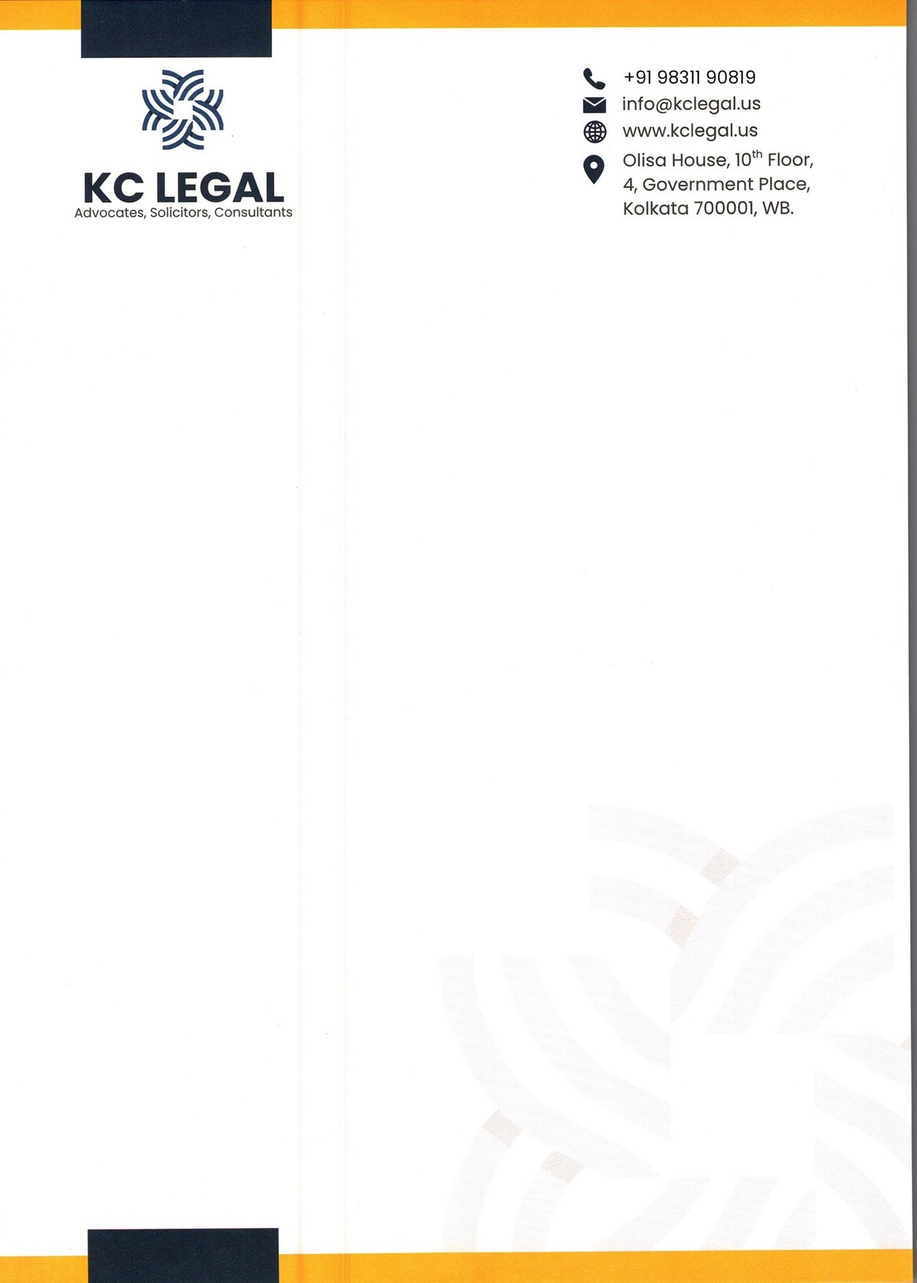
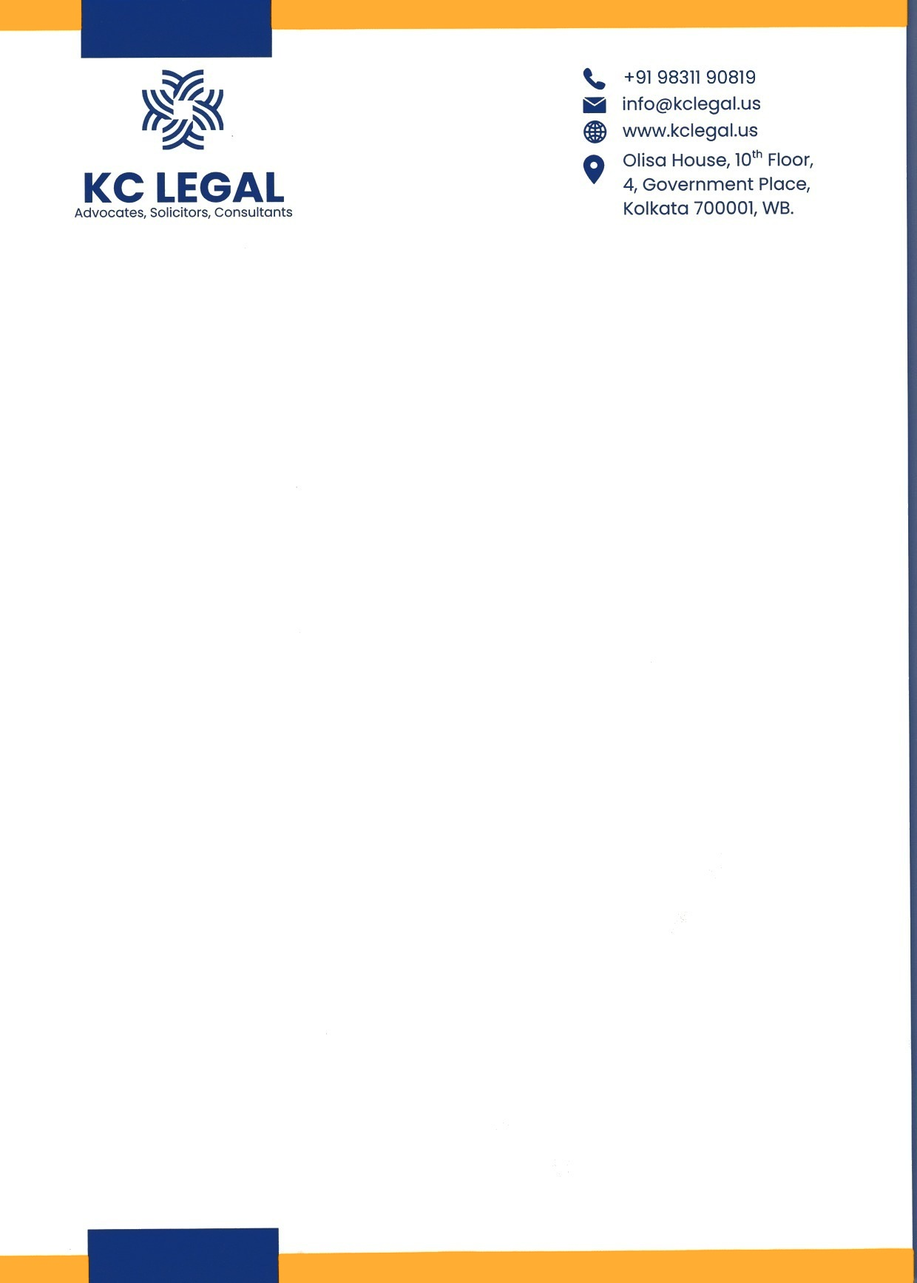
v2.6

diff --git a/public/views-office.js b/public/views-office.js
@@ -363,19 +363,18 @@ route(/^\/template$/, async () => {
   let T = await getTpl(true);
   const F = (k, label, o = {}) => `<label>${label}</label>${o.area ? `<textarea name="${k}" rows="3">` : `<input name="${k}" type="${o.type || 'text'}" ${o.type === 'number' ? 'min="0" max="120"' : ''} value="`}${o.area ? esc(T.settings[k] || '') + '</textarea>' : esc(T.settings[k] ?? '') + '">'}`;
   const sample = () => {
-    const S = T.settings;
-    return sheetFor(T, `<div class="dochead"><h1>${esc(S.invoice_title)}</h1><div class="meta"><div><span>Invoice no.</span><b>INV/0001/2026</b></div><div><span>Date</span><b>${dt(new Date().toISOString().slice(0, 10))}</b></div></div></div>
-      <div class="billto"><span>BILL TO</span><b>Sample Client</b><div>Kolkata</div></div>
-      <table class="itab"><tr><th>#</th><th>Description</th><th class="n">Amount</th></tr><tr><td>1</td><td>Professional fees</td><td class="n">${inr(1500000)}</td></tr></table>
-      <table class="ttab"><tr class="due"><td>Amount due</td><td class="n">${inr(1500000)}</td></tr></table>
-      <p class="words"><span>In words:</span> ${inWords(1500000)}</p>
-      ${S.payment_details ? `<div class="paybox"><b>Payment details</b><div>${esc(S.payment_details).replace(/\n/g, '<br>')}</div></div>` : ''}
-      ${S.invoice_footer ? `<p class="inote">${esc(S.invoice_footer)}</p>` : ''}${signBlock(S)}`);
+    const S = T.settings, d = new Date().toISOString().slice(0, 10);
+    const inv = { inv_no: 'INV/0001', inv_date: d, due_date: d, status: 'sent', client_name: 'Sample Client Pvt. Ltd.', client_address: '12 Park Street\nKolkata 700016', subject: 'Professional fees for legal services',
+      items: [{ description: 'Legal consultation\nAdvice, drafting and appearance as required.', qty: 1, rate_paise: 1500000 }, { description: 'Documentation charges', qty: 2, rate_paise: 250000 }], total_paise: 2000000, paid_paise: 0, payments: [], notes: '' };
+    return sheetFor(T, invoiceSheet(inv, S, T));
   };
   view(`<h1>Document design</h1><p class="mute">This letter pad is used for every invoice, receipt and letter your firm prints.</p>
     <div class="tplgrid"><div class="card"><form id="tf">
       <h3>Letterhead image</h3><p class="mute">Upload a full-page A4 JPG or PNG (max 4 MB) with your logo, header and footer. Or leave it empty and a text header is printed.</p>
-      <div class="row"><input type="file" id="lhf" accept="image/jpeg,image/png"><button type="button" class="btn sm ghost" id="lhd" ${T.has_letterhead ? '' : 'hidden'}>Remove image</button></div>
+      <div class="row"><input type="file" id="lhf" accept="image/jpeg,image/png"><button type="button" class="btn sm ghost" id="lhd" style="${T.has_letterhead ? '' : 'display:none'}">Remove image</button><button type="button" class="btn sm" id="lhm" style="${T.has_letterhead ? '' : 'display:none'}">Match colours &amp; margins to letterhead</button></div>
+      <p class="mute">After you upload, the portal reads your letterhead and sets the colours and the header/footer space so the invoice matches it.</p>
+      <h3>Signature</h3><p class="mute">Upload a picture of the authorised signatory's signature (PNG with transparent background is best, max 1 MB). It prints above "Authorised Signatory".</p>
+      <div class="row"><input type="file" id="sgf" accept="image/jpeg,image/png"><button type="button" class="btn sm ghost" id="sgd" style="${T.has_signature ? '' : 'display:none'}">Remove signature</button></div>${T.has_signature ? `<img src="/api/template/signature?v=${T.sv}" alt="" style="max-height:60px;margin-top:.4rem;background:#fff;border:1px solid #ddd;padding:2px">` : ''}
       <h3>Header (used when there is no image)</h3>${F('header_name', 'Firm name')}${F('tagline', 'Tagline')}${F('address', 'Address', { area: 1 })}${F('phone', 'Phone')}${F('email', 'Email')}${F('website', 'Website')}
       <h3>Colours &amp; font</h3><div class="row"><div><label>Main</label><input name="primary" type="color" value="${T.settings.primary}"></div><div><label>Accent</label><input name="accent" type="color" value="${T.settings.accent}"></div><div><label>Title</label><input name="title_color" type="color" value="${T.settings.title_color}"></div></div>
       <label>Font</label><select name="font"><option value="sans" ${T.settings.font === 'sans' ? 'selected' : ''}>Modern (sans-serif)</option><option value="serif" ${T.settings.font === 'serif' ? 'selected' : ''}>Classic (serif)</option></select>
@@ -383,7 +382,7 @@ route(/^\/template$/, async () => {
       <p class="mute">Top and bottom are the space kept clear for the letterhead's header and footer. They apply on every page of a long document. Margins are in millimetres.</p>
       <div class="row"><div>${F('top_mm', 'Top / header', { type: 'number' })}</div><div>${F('bottom_mm', 'Bottom / footer', { type: 'number' })}</div></div><div class="row"><div>${F('left_mm', 'Left', { type: 'number' })}</div><div>${F('right_mm', 'Right', { type: 'number' })}</div></div>
       <div class="row" style="margin-top:.4rem"><button type="button" class="btn sm ghost" id="mstd">Standard A4 (25 mm all round)</button></div>
-      <h3>Wording</h3>${F('invoice_title', 'Invoice title')}${F('receipt_title', 'Receipt title')}${F('signatory_name', 'Signatory name')}${F('signatory_title', 'Signatory designation')}${F('payment_details', 'Payment details (bank / UPI)', { area: 1 })}${F('invoice_footer', 'Invoice footer note', { area: 1 })}
+      <h3>Wording</h3>${F('invoice_title', 'Invoice title')}${F('receipt_title', 'Receipt title')}${F('signatory_name', 'Signatory name')}${F('signatory_title', 'Signatory designation')}${F('payment_details', 'Payment details (bank / UPI)', { area: 1 })}${F('invoice_footer', 'Invoice footer note', { area: 1 })}${F('pan', 'PAN (printed under Notes)')}${F('invoice_terms', 'Terms & conditions (one per line)', { area: 1 })}
       <p class="err" hidden></p><div style="margin-top:1rem"><button class="btn gold" style="width:100%">Save design</button></div></form></div>
       <div class="tplprev" id="pv"></div></div>`);
   const form = $('#tf'), pv = $('#pv');
@@ -395,7 +394,34 @@ route(/^\/template$/, async () => {
     e.preventDefault(); const err = $('.err', form); err.hidden = true;
     try { await PUT('/api/template', read()); T = await getTpl(true); paint(); toast('Design saved'); } catch (ex) { err.hidden = false; err.textContent = ex.message; }
   };
-  $('#lhf').onchange = async (e) => { const f = e.target.files[0]; if (!f) return; const fd = new FormData(); fd.append('file', f); try { await POST('/api/template/letterhead', fd); T = await getTpl(true); toast('Letterhead uploaded'); go(); } catch (ex) { toast(ex.message, true); } };
+  const readImg = (f) => new Promise((ok, no) => { const fr = new FileReader(); fr.onerror = no; fr.onload = () => { const im = new Image(); im.onload = () => ok(im); im.onerror = no; im.src = fr.result; }; fr.readAsDataURL(f); });
+  // read the letterhead: find the header/footer depth and the dominant dark + bright colours
+  const matchLh = async (src) => {
+    const im = typeof src === 'string' ? await new Promise((ok, no) => { const i = new Image(); i.onload = () => ok(i); i.onerror = no; i.src = src; }) : await readImg(src);
+    const W = 200, H = Math.round(W * im.naturalHeight / im.naturalWidth), c = document.createElement('canvas'); c.width = W; c.height = H;
+    const g = c.getContext('2d'); g.drawImage(im, 0, 0, W, H); const px = g.getImageData(0, 0, W, H).data;
+    const ink = (x, y) => { const k = (y * W + x) * 4; return px[k + 3] > 40 && (px[k] + px[k + 1] + px[k + 2]) / 3 < 225; };
+    const rowInk = []; for (let y = 0; y < H; y++) { let n = 0; for (let x = 0; x < W; x++) if (ink(x, y)) n++; rowInk.push(n > 1); }
+    const mm = (y) => Math.round(y * 297 / H), gap = Math.max(3, Math.round(H * 0.03));
+    let top = 0; { let y = 0, blank = 0; for (; y < H * 0.45; y++) { if (rowInk[y]) { top = y; blank = 0; } else if (top && ++blank >= gap) break; } }
+    let bot = H; { let y = H - 1, blank = 0; for (; y > H * 0.55; y--) { if (rowInk[y]) { bot = y; blank = 0; } else if (bot < H && ++blank >= gap) break; } }
+    const bk = new Map();
+    for (let y = 0; y < H; y++) for (let x = 0; x < W; x++) { const k = (y * W + x) * 4, r = px[k], gg = px[k + 1], b = px[k + 2];
+      if (px[k + 3] < 40 || Math.max(r, gg, b) - Math.min(r, gg, b) < 45) continue;
+      const key = (r >> 5) * 64 + (gg >> 5) * 8 + (b >> 5); const e = bk.get(key) || [0, 0, 0, 0]; e[0]++; e[1] += r; e[2] += gg; e[3] += b; bk.set(key, e); }
+    const hex = (e) => '#' + [e[1], e[2], e[3]].map((v) => Math.round(v / e[0]).toString(16).padStart(2, '0')).join('');
+    const rgb = (e) => [e[1] / e[0], e[2] / e[0], e[3] / e[0]], dist = (p, q) => Math.hypot(p[0] - q[0], p[1] - q[1], p[2] - q[2]);
+    const list = [...bk.values()].filter((e) => e[0] > 25).sort((p, q) => q[0] - p[0]);
+    let dk = null, br = null;
+    if (list.length) { const dark = list.find((e) => (rgb(e)[0] + rgb(e)[1] + rgb(e)[2]) / 3 < 150) || list[0]; dk = hex(dark); const o = list.find((e) => dist(rgb(e), rgb(dark)) > 110); br = o ? hex(o) : null; }
+    return { top_mm: Math.min(120, Math.max(10, mm(top) + 3)), bottom_mm: Math.min(80, Math.max(8, 297 - mm(bot) + 2)), primary: dk, accent: br };
+  };
+  const applyMatch = async (src) => { const m = await matchLh(src); const o = { top_mm: m.top_mm, bottom_mm: m.bottom_mm }; if (m.primary) o.primary = m.primary; if (m.accent) o.accent = m.accent; await PUT('/api/template', { ...T.settings, ...o }); };
+  $('#lhf').onchange = async (e) => { const f = e.target.files[0]; if (!f) return; const fd = new FormData(); fd.append('file', f);
+    try { await POST('/api/template/letterhead', fd); try { await applyMatch(f); } catch (x) { console.error('match failed', x); } T = await getTpl(true); toast('Letterhead uploaded - colours and margins matched'); go(); } catch (ex) { toast(ex.message, true); } };
+  $('#lhm').onclick = async () => { try { await applyMatch('/api/template/letterhead?v=' + Date.now()); T = await getTpl(true); toast('Colours and margins matched to your letterhead'); go(); } catch (ex) { toast(ex.message, true); } };
+  $('#sgf').onchange = async (e) => { const f = e.target.files[0]; if (!f) return; const fd = new FormData(); fd.append('file', f); try { await POST('/api/template/signature', fd); T = await getTpl(true); toast('Signature uploaded'); go(); } catch (ex) { toast(ex.message, true); } };
+  $('#sgd').onclick = async () => { if (!sure('Remove the signature?')) return; await DEL('/api/template/signature'); await getTpl(true); go(); };
   $('#lhd').onclick = async () => { if (!sure('Remove the letterhead image?')) return; await DEL('/api/template/letterhead'); await getTpl(true); go(); };
 });
 

diff --git a/public/views-billing.js b/public/views-billing.js
@@ -6,22 +6,34 @@ route(/^\/invoices$/, async () => {
     <div class="card"><h2>Receipts</h2>${pay.length ? `<ul class="list">${pay.map((p) => `<li><a href="#/receipt/${p.id}">${esc(p.rec_no)}</a><span>${inr(p.amount_paise)} · ${dt(p.pay_date)}</span></li>`).join('')}</ul>` : '<p class="mute">No receipts.</p>'}</div>`);
 }, { client: true });
 
+
+function invoiceSheet(i, S, T) {
+  const lines = (t) => esc(t).replace(/\n/g, '<br>');
+  const terms = (() => { if (!i.due_date || i.due_date <= i.inv_date) return 'Due on Receipt'; const n = Math.round((new Date(i.due_date) - new Date(i.inv_date)) / 864e5); return 'Due in ' + n + ' day' + (n === 1 ? '' : 's'); })();
+  const due = i.total_paise - i.paid_paise, closed = ['draft', 'cancelled'].includes(i.status);
+  const tc = String(S.invoice_terms || '').split('\n').map((x) => x.trim()).filter(Boolean);
+  const stamp = { paid: 'PAID', cancelled: 'CANCELLED', draft: 'DRAFT' }[i.status] || '';
+  return `<div class="vi">
+    <div class="vi-title"><h1>${esc(S.invoice_title)}</h1>${stamp ? `<span class="vi-stamp">${stamp}</span>` : ''}</div>
+    <div class="vi-box vi-meta"><div><p><span>Invoice No.</span>: <b>${esc(i.inv_no)}</b></p><p><span>Invoice Date</span>: <b>${dt(i.inv_date)}</b></p></div><div><p><span>Terms</span>: <b>${terms}</b></p><p><span>Due Date</span>: <b>${dt(i.due_date || i.inv_date)}</b></p></div></div>
+    <div class="vi-bar">Bill To</div>
+    <div class="vi-box vi-bill"><b>${esc(i.client_name)}</b>${i.client_address ? `<div>${lines(i.client_address)}</div>` : ''}</div>
+    ${i.subject ? `<div class="vi-box vi-sub"><span>Subject :</span> <b>${esc(i.subject)}</b></div>` : ''}
+    <table class="vi-items"><tr><th class="c">#</th><th>Item &amp; Description</th><th class="n">Qty</th><th class="n">Rate</th><th class="n">Amount</th></tr>${i.items.map((x, k) => { const [h, ...r] = String(x.description).split('\n'); return `<tr><td class="c">${k + 1}</td><td><b>${esc(h)}</b>${r.length ? `<div class="d">${lines(r.join('\n'))}</div>` : ''}</td><td class="n">${Number(x.qty).toFixed(2)}</td><td class="n">${inr(x.rate_paise).slice(1)}</td><td class="n">${inr(Math.round(x.qty * x.rate_paise)).slice(1)}</td></tr>`; }).join('')}</table>
+    <div class="vi-tot"><div class="w"><span>Total In Words</span><em>${inWords(i.total_paise).replace(/^Rupees/, 'Indian Rupee')}</em></div>
+      <table><tr><td>Sub Total</td><td class="n">${inr(i.total_paise).slice(1)}</td></tr><tr class="t"><td>Total</td><td class="n">${inr(i.total_paise)}</td></tr>${i.paid_paise ? `<tr><td>Payment Received</td><td class="n">(−) ${inr(i.paid_paise)}</td></tr>` : ''}${closed ? '' : `<tr class="due"><td>Balance Due</td><td class="n">${inr(due)}</td></tr>`}</table></div>
+    ${i.notes || S.pan || S.payment_details || S.invoice_footer || i.payments.length ? `<div class="vi-notes"><div class="nl">${S.payment_details ? `<p class="bk"><u>BANK DETAILS</u><br>${lines(String(S.payment_details).replace(/(IFSC[^\n(]*?)\s*\(([^)\n]+)\)/i, '$1\nBranch: $2'))}</p>` : ''}${S.pan ? `<p>PAN: ${esc(S.pan)}</p>` : ''}${i.notes ? `<p>${lines(i.notes)}</p>` : ''}${S.invoice_footer ? `<p class="ft">${esc(S.invoice_footer)}</p>` : ''}</div><div class="vi-sign"><div class="gap">${T && T.has_signature ? `<img src="/api/template/signature?v=${T.sv}" alt="">` : ''}</div><div>Authorised Signatory</div></div>${i.payments.length ? `<p class="ft"><b>Receipts:</b> ${i.payments.map((p) => `${esc(p.rec_no)} (${inr(p.amount_paise)}, ${dt(p.pay_date)})`).join('; ')}</p>` : ''}</div>` : `<div class="vi-sign"><div class="gap">${T && T.has_signature ? `<img src="/api/template/signature?v=${T.sv}" alt="">` : ''}</div><div>Authorised Signatory</div></div>`}
+    ${tc.length ? `<div class="vi-terms"><span>Terms &amp; Conditions</span><ol>${tc.map((x) => `<li>${esc(x)}</li>`).join('')}</ol></div>` : ''}
+  </div>`;
+}
+
 route(/^\/invoice\/(\d+)$/, async ([id]) => {
   const [i, T] = await Promise.all([GET('/api/invoices/' + id), getTpl()]), S = T.settings, billing = can('admin', 'advocate', 'accounts');
   view(`<div class="row sp noprint"><a class="btn ghost sm" href="#/" data-back>← Back</a><div class="row">
     ${billing && i.status === 'draft' ? '<button class="btn gold sm" id="iss">Issue to client</button>' : ''}
     ${billing && ['sent', 'part_paid'].includes(i.status) ? '<button class="btn sm" id="rcv">Record payment</button><button class="btn sm ghost" id="rmd">Send reminder with pay link</button>' : ''}
     ${billing && ['draft', 'sent'].includes(i.status) ? '<button class="btn red sm" id="cxl">Cancel</button>' : ''}<button class="btn sm" data-print>Print</button></div></div>
-    ${sheetFor(T, `<div class="dochead"><h1>${esc(S.invoice_title)}</h1><div class="meta"><div><span>Invoice No.</span><b>${esc(i.inv_no)}</b></div><div><span>Date</span><b>${dt(i.inv_date)}</b></div>${i.due_date ? `<div><span>Due date</span><b>${dt(i.due_date)}</b></div>` : ''}<div><span>Status</span><b>${esc(String(i.status).replace('_', ' ').toUpperCase())}</b></div></div></div>
-    <div class="billto"><span>BILLED TO</span><b>${esc(i.client_name)}</b>${i.client_address ? `<div>${esc(i.client_address)}</div>` : ''}</div>
-    <table class="itab"><tr><th>#</th><th>Description</th><th class="n">Qty</th><th class="n">Rate (₹)</th><th class="n">Amount (₹)</th></tr>${i.items.map((x, k) => `<tr><td>${k + 1}</td><td>${esc(x.description)}</td><td class="n">${x.qty}</td><td class="n">${inr(x.rate_paise).slice(1)}</td><td class="n">${inr(Math.round(x.qty * x.rate_paise)).slice(1)}</td></tr>`).join('')}</table>
-    <table class="ttab"><tr><td>Total</td><td class="n">${inr(i.total_paise)}</td></tr>${i.paid_paise ? `<tr><td>Received</td><td class="n">− ${inr(i.paid_paise)}</td></tr>` : ''}<tr class="due"><td>${i.paid_paise ? 'Balance due' : 'Amount due'}</td><td class="n">${inr(i.total_paise - i.paid_paise)}</td></tr></table>
-    <p class="words"><span>Amount in words:</span> ${inWords(i.total_paise - i.paid_paise)}</p>
-    ${i.notes ? `<p class="inote">${esc(i.notes)}</p>` : ''}
-    ${i.payments.length ? `<p class="inote"><b>Receipts:</b> ${i.payments.map((p) => `${esc(p.rec_no)} (${inr(p.amount_paise)}, ${dt(p.pay_date)})`).join('; ')}</p>` : ''}
-    ${S.payment_details ? `<div class="paybox"><b>Payment details</b><div>${esc(S.payment_details).replace(/\n/g, '<br>')}</div></div>` : ''}
-    ${S.invoice_footer ? `<p class="inote">${esc(S.invoice_footer)}</p>` : ''}
-    ${signBlock(S)}`)}`);
+    ${sheetFor(T, invoiceSheet(i, S, T))}`);
   const act = (sel, fn) => { const b = $(sel); if (b) b.onclick = fn; };
   act('#iss', async () => { await POST(`/api/invoices/${id}/issue`); go(); });
   act('#cxl', async () => { if (sure('Cancel this invoice?')) { await POST(`/api/invoices/${id}/cancel`); go(); } });
@@ -50,9 +62,12 @@ const BTABS = [['invoices', 'Invoices'], ['payments', 'Receipts'], ['payouts', '
 route(/^\/(?:billing|accounts)(?:\/(\w+))?$/, async ([tab = 'invoices'], p) => {
   const head = `<h1>Accounts</h1><div class="tabs">${BTABS.map(([k, l]) => `<a href="#/accounts/${k}" class="${tab === k ? 'on' : ''}">${l}</a>`).join('')}</div>`;
   if (tab === 'invoices') {
+    const sk = invSortKey(), rowsHtml = (list) => list.map((i) => `<tr><td><a href="#/invoice/${i.id}">${esc(i.inv_no)}</a></td><td>${esc(i.client_name)}</td><td>${dt(i.inv_date)}</td><td class="n">${inr(i.total_paise)}</td><td class="n">${inr(i.paid_paise)}</td><td>${sp(i.status)}</td></tr>`).join('');
     const rows = await GET('/api/invoices');
-    view(`${head}<div class="row sp" style="margin-bottom:.8rem"><span class="mute">${rows.length} invoices</span><button class="btn" id="add">New invoice</button></div><div class="card"><div class="tw"><table><tr><th>No.</th><th>Client</th><th>Date</th><th class="n">Total</th><th class="n">Received</th><th></th></tr>${rows.map((i) => `<tr><td><a href="#/invoice/${i.id}">${esc(i.inv_no)}</a></td><td>${esc(i.client_name)}</td><td>${dt(i.inv_date)}</td><td class="n">${inr(i.total_paise)}</td><td class="n">${inr(i.paid_paise)}</td><td>${sp(i.status)}</td></tr>`).join('')}</table></div></div>`);
-    $('#add').onclick = async () => ask('New invoice', [{ name: 'client_id', label: 'Client', type: 'select', options: await clientOpts(), required: true }, { name: 'matter_id', label: 'Matter', type: 'select', options: await matterOpts() }, { name: 'inv_date', label: 'Date', type: 'date', value: today() }, { name: 'due_date', label: 'Due date', type: 'date' },
+    view(`${head}<div class="row sp" style="margin-bottom:.8rem"><span class="mute">${rows.length} invoices</span><span class="row" style="gap:.5rem">${invSortSel(sk)}<button class="btn" id="add">New invoice</button></span></div><div class="card"><div class="tw"><table><tr><th>No.</th><th>Client</th><th>Date</th><th class="n">Total</th><th class="n">Received</th><th></th></tr>${rowsHtml(sortInv(rows, sk))}</table></div></div>`);
+    
+    $('#invsort').onchange = (e) => { invSortSave(e.target.value); const tb = document.querySelector('.card table'); const hdr = tb.rows[0].outerHTML; tb.innerHTML = '<tbody>' + hdr + rowsHtml(sortInv(rows, e.target.value)) + '</tbody>'; };
+    $('#add').onclick = async () => ask('New invoice', [{ name: 'client_id', label: 'Client', type: 'select', options: await clientOpts(), required: true }, { name: 'matter_id', label: 'Matter', type: 'select', options: await matterOpts() }, { name: 'inv_date', label: 'Date', type: 'date', value: today() }, { name: 'due_date', label: 'Due date', type: 'date' }, { name: 'subject', label: 'Subject (printed on the invoice)' },
       { name: 'lines', label: 'Items — one per line: Description | Qty | Rate (₹)', type: 'textarea', required: true, ph: 'Professional fee — hearing | 1 | 15000\nDrafting of reply | 1 | 5000' }, { name: 'notes', label: 'Notes on invoice' }], 'Create draft', async (v) => {
       const items = v.lines.split('\n').map((s) => s.trim()).filter(Boolean).map((s) => { const [d, q, r] = s.split('|').map((x) => x.trim()); if (!d || !(+r > 0)) throw new Error('Check this line: ' + s); return { description: d, qty: +q || 1, rate: +r }; });
       const r = await POST('/api/invoices', { ...v, items, matter_id: v.matter_id || null }); location.hash = '#/invoice/' + r.id; }, true);

diff --git a/public/style.css b/public/style.css
@@ -163,3 +163,57 @@ input[type=color]{width:64px;height:38px;padding:2px}
 
 .printhead{display:none}
 @media print{.printhead{display:block;margin-bottom:.6rem}.printhead hr{border:0;border-top:2px solid #b8893b}.tabs,.chead,.fx-bar{display:none!important}.msg{break-inside:avoid}table{font-size:10pt}body{-webkit-print-color-adjust:exact;print-color-adjust:exact}}
+
+/* invoice in the firm's tax-invoice layout (navy + amber letter-pad colours) */
+.vi{font-size:9.5pt;line-height:1.45;color:#1b2238}
+.vi-title{display:flex;justify-content:space-between;align-items:flex-end;margin-bottom:3mm}.vi-title h1{margin:0;font-size:26pt;letter-spacing:.06em;font-weight:500;color:var(--pri)}
+.vi-stamp{border:2px solid var(--acc);color:#b87700;font-weight:700;padding:1mm 4mm;letter-spacing:.14em;transform:rotate(-4deg)}
+.vi-box{border:1px solid #c9cfdc;border-bottom:0;padding:2.4mm 3mm}.vi-meta{display:grid;grid-template-columns:1fr 1fr;padding:0}.vi-meta>div{padding:2.4mm 3mm}.vi-meta>div:first-child{border-right:1px solid #c9cfdc}
+.vi-meta p{margin:0;display:flex}.vi-meta span{display:inline-block;width:27mm;color:#4a5370}.vi-meta b{margin-left:1.5mm}
+.vi-bar{background:var(--pri);color:#fff;font-weight:700;padding:1.6mm 3mm;border:1px solid var(--pri);border-bottom:0}.vi-bill b{font-size:11.5pt}
+.vi-sub span{color:#4a5370;font-size:9pt}.vi-sub p{margin:1mm 0 0}
+.vi-items{width:100%;border-collapse:collapse;border:1px solid #c9cfdc}.vi-items th{background:var(--pri);color:#fff;padding:1.8mm 3mm;text-align:left;font-size:9pt;border-right:1px solid rgba(255,255,255,.3)}
+.vi-items td{padding:2.2mm 3mm;vertical-align:top;border-top:1px solid #dde1ea}.vi-items .c{width:9mm;text-align:center}.vi-items .n{text-align:right;white-space:nowrap}.vi-items th.n{text-align:right}.vi-items .d{color:#4a5370;font-size:9pt}
+.vi-tot{display:flex;justify-content:space-between;gap:6mm;border:1px solid #c9cfdc;border-top:0;padding:3mm}.vi-tot .w{flex:1}.vi-tot .w span{display:block;color:#4a5370}.vi-tot .w em{display:block;font-weight:700;color:var(--pri)}
+.vi-tot table{width:78mm;border-collapse:collapse}.vi-tot td{padding:1.2mm 2mm}.vi-tot td.n{text-align:right}.vi-tot .t td{font-weight:700}.vi-tot .due td{background:var(--acc);color:var(--pri);font-weight:700;font-size:11pt;padding:2mm}
+.vi-notes{border:1px solid #c9cfdc;border-top:0;padding:3mm}.vi-notes>span{display:block;color:#4a5370;margin-bottom:1mm}.vi-notes p{margin:0 0 2mm}.vi-notes .ft{color:#4a5370;font-size:9pt}
+.vi-sign{margin:6mm 0 4mm auto;width:62mm;text-align:center}.vi-sign .gap{height:16mm;border-bottom:1px solid #9aa3b8;margin-bottom:1.5mm}
+.vi-terms{font-size:8.5pt;color:#333;break-inside:avoid}.vi-terms>span{display:block;font-weight:700;color:var(--pri);margin-bottom:1mm;border-bottom:2px solid var(--acc);padding-bottom:1mm}.vi-terms ol{margin:1.5mm 0 0 4.5mm;padding:0}.vi-terms li{margin-bottom:.6mm}
+.vi-box,.vi-bar,.vi-items tr,.vi-tot,.vi-notes{break-inside:avoid}
+.vi-items .c{width:10mm}.vi-items th.n,.vi-items td.n{width:24mm;padding-left:2mm;padding-right:3mm}.vi-items th:nth-child(3),.vi-items td:nth-child(3){width:16mm}
+.vi-terms ol{columns:2;column-gap:7mm;margin-left:4mm}.vi-terms li{break-inside:avoid;font-size:8pt}
+.vi-notes{display:grid;grid-template-columns:1fr 1fr;column-gap:6mm}.vi-notes>span{grid-column:1/3}.vi-notes .ft{grid-column:1/3;margin:0}
+.vi-sign{margin:3mm 0 3mm auto}.vi-sign .gap{height:11mm}.vi-title{margin-bottom:2mm}.vi-box{padding:1.8mm 3mm}
+.vi-box{padding:1.3mm 3mm}.vi-meta>div{padding:1.6mm 3mm}.vi-items td{padding:1.6mm 3mm}.vi-tot{padding:2mm 3mm}.vi-notes{padding:2mm 3mm}.vi-notes p{margin:0 0 1mm}.vi-sign{margin:2mm 0 2mm auto}.vi-sign .gap{height:9mm}.vi-terms li{margin-bottom:.2mm}.vi-title h1{font-size:23pt}
+.vi-terms li{font-size:7.6pt;line-height:1.35}.vi-terms>span{font-size:8.5pt}
+.vi-terms{break-inside:auto}
+.vi-terms ol{columns:3;column-gap:5mm}.vi-terms li{font-size:7.2pt;line-height:1.3}.vi-terms{break-inside:avoid}
+.vi-terms .tcg{display:grid;grid-template-columns:repeat(3,1fr);column-gap:5mm}.vi-terms ol{columns:auto}
+.vi-sign .gap{height:6mm}.vi-sign{margin:1.5mm 0 1.5mm auto}.vi-title h1{font-size:21pt}.vi-terms li{font-size:7pt;line-height:1.25}.vi-items td{padding:1.3mm 3mm}
+.vi-title{position:relative;display:block;text-align:center;margin:1mm 0 2mm}.vi-title h1{color:#d11f1f;text-align:center;margin:0;font-size:22pt;letter-spacing:.2em}.vi-stamp{position:absolute;right:0;top:50%;margin-top:-5mm}
+.vi-terms ol{columns:auto;margin:1mm 0 0 4mm}.vi-terms li{font-size:7.4pt;line-height:1.3;margin-bottom:.2mm}.vi-sign .gap{height:8mm}.vi-notes p{margin:0 0 .5mm}.vi-box{padding:1mm 3mm}.vi-meta>div{padding:1mm 3mm}.vi-items td{padding:1.1mm 3mm}
+.vi-bar{background:#fff!important;color:var(--pri)!important;border:1px solid #c9cfdc!important;border-bottom:2px solid var(--acc)!important}
+.vi-items th{background:#fff!important;color:var(--pri)!important;border-right:0!important;border-bottom:2px solid var(--acc)!important;border-top:1px solid #c9cfdc}
+.vi-tot .due td{background:#fff!important;border-top:2px solid var(--acc);border-bottom:2px solid var(--acc)}
+.vi-bar{padding:.8mm 3mm!important}.vi-items td.d,.vi-items .d{font-size:8pt;line-height:1.25}.vi-items th{padding:1mm 3mm!important}.vi-items td{padding:.9mm 3mm!important}.vi-box.vi-bill{padding:.8mm 3mm}.vi-meta span{width:24mm}.vi-meta p{font-size:9.5pt}.vi-sign{margin:1mm 0 1mm auto}.vi-sign .gap{height:7mm}.vi-notes{padding:1.2mm 3mm}.vi-tot{padding:1.2mm 3mm}.vi-tot td{padding:.6mm 2mm}.vi-tot .due td{padding:1mm 2mm}
+.vi-items th:nth-child(2),.vi-items td:nth-child(2){width:auto}.vi-items td.n,.vi-items th.n{width:21mm}.vi-items th:nth-child(3),.vi-items td:nth-child(3){width:12mm}
+.vi-items{table-layout:fixed;width:100%}.vi-items th.c,.vi-items td.c{width:9mm}.vi-items th:nth-child(3),.vi-items td:nth-child(3){width:14mm}.vi-items th:nth-child(4),.vi-items td:nth-child(4),.vi-items th:nth-child(5),.vi-items td:nth-child(5){width:27mm}.vi-items td:nth-child(2){width:auto;max-width:none}
+.vi-sub p{display:inline;margin:0}.vi-items th:nth-child(4),.vi-items td:nth-child(4),.vi-items th:nth-child(5),.vi-items td:nth-child(5){width:23mm}.vi-items .d{font-size:7.6pt;line-height:1.2}.vi-terms li{font-size:7pt;line-height:1.22}.vi-notes .ft{font-size:8.5pt}.vi-title{margin:0 0 1mm}
+.vi-stamp{top:auto;bottom:0;margin-top:0;font-size:8.5pt;padding:.4mm 3mm}
+.vi-notes{display:grid!important;grid-template-columns:1.4fr 1fr;column-gap:6mm;align-items:end}.vi-notes .nl p{margin:0 0 .8mm}.vi-notes .ft{grid-column:1/3}.vi-notes .vi-sign{margin:0;width:auto;align-self:end}.vi-notes .vi-sign .gap{height:9mm}
+.vi-title h1{color:#e0201b}.vi-bar{border-bottom-color:var(--acc)!important}
+.vi-notes{padding-bottom:0!important}.vi-notes .nl{padding-bottom:1.2mm}.vi-notes .vi-sign{padding:0;line-height:1;margin-bottom:0}.vi-notes .vi-sign .gap{margin-bottom:.8mm}.vi-notes .vi-sign>div:last-child{padding-bottom:0;line-height:1.1;position:relative;top:0}.vi-notes .ft{padding-bottom:1.2mm}.vi-terms{margin-top:3.5mm}
+.vi-notes .nl .ft{grid-column:auto;padding:0;margin:0}.vi-notes .vi-sign{margin-bottom:0}
+/* vivid invoice: light tints of the firm's own colours (low ink) */
+.vi-title h1{color:var(--ttl,#d0021b)}
+.vi-bar{background:color-mix(in srgb,var(--pri) 10%,#fff)!important;color:var(--pri)!important;border-left:4px solid var(--pri)!important;border-bottom:2px solid var(--acc)!important}
+.vi-items th{background:color-mix(in srgb,var(--acc) 26%,#fff)!important;color:var(--pri)!important;border-bottom:2px solid var(--acc)!important}
+.vi-items tbody tr:nth-child(even) td,.vi-items tr:nth-child(odd) td{background:transparent}
+.vi-items td.c{color:var(--pri);font-weight:700}
+.vi-tot .t td{color:var(--pri);font-size:11pt}.vi-tot .due td{background:color-mix(in srgb,var(--acc) 30%,#fff)!important;color:var(--pri)}
+.vi-tot .w em{color:var(--pri)}.vi-meta span{color:var(--pri)}.vi-box{border-color:color-mix(in srgb,var(--pri) 28%,#fff)}.vi-meta{border-top:3px solid var(--acc)}
+.vi-notes .bk u{color:var(--pri);text-decoration:none;font-weight:700;border-bottom:2px solid var(--acc)}
+.vi-terms>span{color:var(--pri);border-bottom-color:var(--acc)}.vi-terms{background:color-mix(in srgb,var(--pri) 4%,#fff);padding:1.5mm 2.5mm;border-left:3px solid var(--acc)}
+.vi-sign .gap{position:relative;height:11mm}.vi-sign .gap img{position:absolute;bottom:0;left:50%;transform:translateX(-50%);max-height:12mm;max-width:100%;mix-blend-mode:multiply}
+.vi-notes .vi-sign{border-top:0}.vi-notes .vi-sign .gap{margin-bottom:.8mm}
+.vi-stamp{color:var(--acc);border-color:var(--acc)}

diff --git a/routes/template.js b/routes/template.js
@@ -11,16 +11,24 @@ const KC = {
   header_name: 'KC LEGAL', tagline: 'Advocates, Solicitors, Consultants', address: 'Olisa House, 10th Floor, 4, Government Place, Kolkata 700001, WB.',
   phone: '+91 98311 90819', email: 'info@kclegal.us', website: 'www.kclegal.us', signatory_name: 'Krishnika Chatterjee', signatory_title: 'Advocate',
 };
+const KC_TERMS = ['Payment shall be paid in favour of KC LEGAL through account payee cheque or demand draft or online bank transfer only.',
+  'Payment shall be made within the due date, failing which a simple interest of 6% will be levied up to one month, and thereafter the firm reserve right to initiate appropriate legal action to recover the dues.',
+  'All disputes are subject to Kolkata jurisdiction only. Regarding financial disputes, all the correspondence shall be marked to kclegal.us@gmail.com only.',
+  'In case of non-payment, the service may be discontinued without any further notice.',
+  'GST not applicable on the bill of advocates/law firms vide notification no.12/2017 Central Tax.',
+  'TDS of not more than 10% can be deducted under section 194J of the Income Tax Act, 1961. TDS Certificate shall be furnished upon deduction if any.',
+  'Transaction within Special Economic Zone area does not attract any Tax liabilities.'].join('\n');
 const base = (name) => ({
   header_name: name, tagline: '', address: '', phone: '', email: '', website: '',
-  primary: '#1f2a44', accent: '#f5a623', title_color: '#d0021b', font: 'sans', page_size: 'a4', top_mm: 58, bottom_mm: 34, left_mm: 20, right_mm: 20,
+  primary: '#14388c', accent: '#ffad33', title_color: '#d0021b', font: 'sans', page_size: 'a4', top_mm: 50, bottom_mm: 11, left_mm: 20, right_mm: 20,
   invoice_title: 'INVOICE', receipt_title: 'RECEIPT', signatory_name: '', signatory_title: '', payment_details: '',
-  invoice_footer: 'Kindly quote the invoice number when making payment.',
+  invoice_footer: 'Kindly quote the invoice number when making payment.', pan: '', invoice_terms: /KC LEGAL/i.test(name || '') ? KC_TERMS : '',
 });
-const STR = { header_name: 80, tagline: 120, address: 240, phone: 60, email: 120, website: 120, invoice_title: 30, receipt_title: 30, signatory_name: 80, signatory_title: 80, payment_details: 600, invoice_footer: 300 };
+const STR = { header_name: 80, tagline: 120, address: 240, phone: 60, email: 120, website: 120, invoice_title: 30, receipt_title: 30, signatory_name: 80, signatory_title: 80, payment_details: 600, invoice_footer: 300, pan: 40, invoice_terms: 1800 };
 const NUM = { top_mm: [0, 120], bottom_mm: [0, 80], left_mm: [5, 60], right_mm: [5, 60] };
 const COL = ['primary', 'accent', 'title_color'];
 
+const sigFile = (tid) => { try { return fs.readdirSync(dir(tid)).find((f) => f.startsWith('signature.')) || null; } catch (e) { return null; } };
 const dir = (tid) => path.resolve(DATA_DIR, 'templates', String(tid));
 function read(tid) {
   const r = db.prepare('SELECT * FROM tenant_templates WHERE tenant_id=?').get(tid);
@@ -53,7 +61,8 @@ module.exports = (app) => {
 
   app.get('/api/template', L.requireLogin, (req, res) => {
     const r = read(T(req));
-    res.json({ settings: r.settings, has_letterhead: !!r.letterhead, v: r.letterhead ? fs.statSync(path.join(dir(T(req)), r.letterhead)).mtimeMs : 0 });
+    const sg = sigFile(T(req));
+    res.json({ settings: r.settings, has_letterhead: !!r.letterhead, v: r.letterhead ? fs.statSync(path.join(dir(T(req)), r.letterhead)).mtimeMs : 0, has_signature: !!sg, sv: sg ? fs.statSync(path.join(dir(T(req)), sg)).mtimeMs : 0 });
   });
   app.put('/api/template', L.need('admin'), (req, res) => {
     const cur = read(T(req)).settings;
@@ -78,6 +87,26 @@ module.exports = (app) => {
     if (r.letterhead) { try { fs.unlinkSync(path.join(dir(T(req)), r.letterhead)); } catch (e) {} }
     db.prepare('UPDATE tenant_templates SET letterhead=NULL WHERE tenant_id=?').run(T(req));
     res.json({ ok: true });
+  });
+  app.post('/api/template/signature', L.need('admin'), up.single('file'), (req, res) => {
+    const b = req.file && req.file.buffer;
+    if (!L.must(res, b && b.length <= 1024 * 1024, 'Signature picture must be under 1 MB.')) return;
+    const ext = b && b[0] === 0xff && b[1] === 0xd8 && b[2] === 0xff ? 'jpg' : b && b[0] === 0x89 && b.slice(1, 4).toString() === 'PNG' ? 'png' : null;
+    if (!L.must(res, ext, 'Please upload a JPG or PNG picture of the signature (a transparent PNG looks best).')) return;
+    fs.mkdirSync(dir(T(req)), { recursive: true });
+    for (const f of fs.readdirSync(dir(T(req)))) if (f.startsWith('signature.')) fs.unlinkSync(path.join(dir(T(req)), f));
+    fs.writeFileSync(path.join(dir(T(req)), 'signature.' + ext), b, { mode: 0o600 });
+    audit(T(req), req.user.id, 'signature_uploaded', 'template', T(req), null, L.ip(req));
+    res.json({ ok: true });
+  });
+  app.delete('/api/template/signature', L.need('admin'), (req, res) => {
+    const f = sigFile(T(req)); if (f) { try { fs.unlinkSync(path.join(dir(T(req)), f)); } catch (e) {} }
+    res.json({ ok: true });
+  });
+  app.get('/api/template/signature', L.requireLogin, (req, res) => {
+    const f = sigFile(T(req)); if (!f) return res.status(404).end();
+    res.set('Cache-Control', 'private, max-age=300');
+    res.sendFile(path.join(dir(T(req)), f));
   });
   app.get('/api/template/letterhead', L.requireLogin, (req, res) => {
     const r = read(T(req));

diff --git a/public/views-client.js b/public/views-client.js
@@ -77,10 +77,13 @@ route(/^\/client\/(\d+)$/, async ([id], p) => {
   }
 
   else if (tab === 'invoices') {
+    const sk = invSortKey(), rowsHtml = (list) => list.map((i) => `<tr><td><a href="#/invoice/${i.id}">${esc(i.inv_no)}</a></td><td>${dt(i.inv_date)}</td><td>${sp(i.status)}</td><td class="n">${inr(i.total_paise)}</td><td class="n">${inr(i.paid_paise)}</td><td class="n">${['draft', 'cancelled'].includes(i.status) ? '' : inr(i.total_paise - i.paid_paise)}</td></tr>`).join('');
     const rows = await GET('/api/invoices?client_id=' + id);
-    T.innerHTML = `<div class="row sp" style="margin-bottom:.8rem"><span class="mute">${rows.length} invoice${rows.length === 1 ? '' : 's'}</span><button class="btn" id="add">New invoice</button></div>
-      <div class="card"><div class="tw">${rows.length ? `<table><tr><th>No.</th><th>Date</th><th>Status</th><th class="n">Total</th><th class="n">Received</th><th class="n">Due</th></tr>${rows.map((i) => `<tr><td><a href="#/invoice/${i.id}">${esc(i.inv_no)}</a></td><td>${dt(i.inv_date)}</td><td>${sp(i.status)}</td><td class="n">${inr(i.total_paise)}</td><td class="n">${inr(i.paid_paise)}</td><td class="n">${['draft', 'cancelled'].includes(i.status) ? '' : inr(i.total_paise - i.paid_paise)}</td></tr>`).join('')}</table>` : '<p class="mute">No invoices yet.</p>'}</div></div>`;
-    $('#add').onclick = () => ask('New invoice for ' + c.name, [{ name: 'matter_id', label: 'Matter', type: 'select', options: matterSel }, { name: 'inv_date', label: 'Date', type: 'date', value: today() }, { name: 'due_date', label: 'Due date', type: 'date' },
+    T.innerHTML = `<div class="row sp" style="margin-bottom:.8rem"><span class="mute">${rows.length} invoice${rows.length === 1 ? '' : 's'}</span><span class="row" style="gap:.5rem">${invSortSel(sk)}<button class="btn" id="add">New invoice</button></span></div>
+      <div class="card"><div class="tw">${rows.length ? `<table><tr><th>No.</th><th>Date</th><th>Status</th><th class="n">Total</th><th class="n">Received</th><th class="n">Due</th></tr>${rowsHtml(sortInv(rows, sk))}</table>` : '<p class="mute">No invoices yet.</p>'}</div></div>`;
+    
+    $('#invsort').onchange = (e) => { invSortSave(e.target.value); const tb = document.querySelector('.card table'); const hdr = tb.rows[0].outerHTML; tb.innerHTML = '<tbody>' + hdr + rowsHtml(sortInv(rows, e.target.value)) + '</tbody>'; };
+    $('#add').onclick = () => ask('New invoice for ' + c.name, [{ name: 'matter_id', label: 'Matter', type: 'select', options: matterSel }, { name: 'inv_date', label: 'Date', type: 'date', value: today() }, { name: 'due_date', label: 'Due date', type: 'date' }, { name: 'subject', label: 'Subject (printed on the invoice)' },
       { name: 'lines', label: 'Items — one per line: Description | Qty | Rate (₹)', type: 'textarea', required: true, ph: 'Professional fee — hearing | 1 | 15000\nDrafting of reply | 1 | 5000' }, { name: 'notes', label: 'Notes on invoice' }], 'Create draft', async (v) => {
       const items = v.lines.split('\n').map((s) => s.trim()).filter(Boolean).map((s) => { const [d, q, r] = s.split('|').map((x) => x.trim()); if (!d || !(+r > 0)) throw new Error('Check this line: ' + s); return { description: d, qty: +q || 1, rate: +r }; });
       const r = await POST('/api/invoices', { ...v, client_id: id, items, matter_id: v.matter_id || null }); location.hash = '#/invoice/' + r.id; }, true);

diff --git a/public/app.js b/public/app.js
@@ -4,6 +4,12 @@ const $ = (s, r = document) => r.querySelector(s);
 const $$ = (s, r = document) => [...r.querySelectorAll(s)];
 const esc = (s) => String(s ?? '').replace(/[&<>"']/g, (c) => ({ '&': '&amp;', '<': '&lt;', '>': '&gt;', '"': '&quot;', "'": '&#39;' }[c]));
 const inr = (p) => '₹' + ((p || 0) / 100).toLocaleString('en-IN', { minimumFractionDigits: 2, maximumFractionDigits: 2 });
+const INV_SORTS = [['new', 'Newest first'], ['old', 'Oldest first'], ['due', 'Highest balance due'], ['amt', 'Highest amount'], ['no', 'Invoice no. (A-Z)']];
+const sortInv = (rows, k) => { const r = rows.slice(), d = (i) => (i.inv_date || ''), due = (i) => ['draft', 'cancelled'].includes(i.status) ? 0 : i.total_paise - i.paid_paise;
+  const f = { new: (x, y) => d(y).localeCompare(d(x)) || String(y.inv_no).localeCompare(String(x.inv_no)), old: (x, y) => d(x).localeCompare(d(y)) || String(x.inv_no).localeCompare(String(y.inv_no)), due: (x, y) => due(y) - due(x), amt: (x, y) => y.total_paise - x.total_paise, no: (x, y) => String(x.inv_no).localeCompare(String(y.inv_no)) }[k] || null; return f ? r.sort(f) : r; };
+const invSortSel = (k) => `<select id="invsort" class="sm" aria-label="Sort invoices" style="max-width:190px">${INV_SORTS.map(([v, l]) => `<option value="${v}" ${v === k ? 'selected' : ''}>${l}</option>`).join('')}</select>`;
+const invSortKey = () => { try { return localStorage.getItem('kc_invsort') || 'new'; } catch (e) { return 'new'; } };
+const invSortSave = (k) => { try { localStorage.setItem('kc_invsort', k); } catch (e) {} };
 const dt = (s) => s ? new Date(s.length === 10 ? s + 'T00:00:00' : s).toLocaleDateString('en-IN', { day: '2-digit', month: 'short', year: 'numeric' }) : '—';
 const dtm = (s) => s ? new Date(s).toLocaleString('en-IN', { dateStyle: 'medium', timeStyle: 'short' }) : '—';
 const today = () => new Date().toISOString().slice(0, 10);

diff --git a/routes/business.js b/routes/business.js
@@ -293,7 +293,7 @@ module.exports = (app, limiter) => {
     const rows = db.prepare(`SELECT i.*, c.name AS client_name,
       COALESCE((SELECT SUM(amount_paise) FROM payments p WHERE p.invoice_id=i.id),0) AS paid_paise
       FROM invoices i JOIN clients c ON c.id=i.client_id WHERE i.tenant_id=? ${cli ? "AND i.client_id=? AND i.status NOT IN ('draft','cancelled')" : fcl ? 'AND i.client_id=?' : ''}
-      ORDER BY i.id DESC LIMIT 300`).all(...(cli ? [T(req), req.user.client_id] : fcl ? [T(req), fcl] : [T(req)]));
+      ORDER BY i.inv_date DESC, i.inv_no DESC, i.id DESC LIMIT 300`).all(...(cli ? [T(req), req.user.client_id] : fcl ? [T(req), fcl] : [T(req)]));
     if (!cli && req.user.role === 'telecaller') return res.status(403).json({ error: 'Not permitted.' });
     res.json(rows);
   });
@@ -328,8 +328,8 @@ module.exports = (app, limiter) => {
       })();
     })();
     const id = db.transaction(() => {
-      const r = db.prepare('INSERT INTO invoices(tenant_id,client_id,matter_id,inv_no,inv_date,due_date,notes,total_paise) VALUES (?,?,?,?,?,?,?,?)')
-        .run(T(req), client.id, L.int(req.body.matter_id), no, date, L.isDate(req.body.due_date) ? req.body.due_date : null, L.str(req.body.notes, 800), total);
+      const r = db.prepare('INSERT INTO invoices(tenant_id,client_id,matter_id,inv_no,inv_date,due_date,notes,total_paise,subject) VALUES (?,?,?,?,?,?,?,?,?)')
+        .run(T(req), client.id, L.int(req.body.matter_id), no, date, L.isDate(req.body.due_date) ? req.body.due_date : null, L.str(req.body.notes, 800), total, L.str(req.body.subject, 200));
       const ins = db.prepare('INSERT INTO invoice_items(tenant_id,invoice_id,description,qty,rate_paise) VALUES (?,?,?,?,?)');
       items.forEach((x) => ins.run(T(req), r.lastInsertRowid, x.d, x.q, x.r));
       return r.lastInsertRowid;

diff --git a/public/sw.js b/public/sw.js
@@ -1,5 +1,5 @@
 // Minimal service worker: lets the app shell open offline; all data always comes from the server.
-const C = 'kc-shell-v15';
+const C = 'kc-shell-v17';
 const SHELL = ['/', '/style.css', '/app.js', '/views-office.js', '/views-billing.js', '/views-ai.js', '/views-files.js', '/views-client.js', '/views-public.js', '/boot.js', '/icon.svg'];
 self.addEventListener('install', (e) => e.waitUntil(caches.open(C).then((c) => c.addAll(SHELL)).then(() => self.skipWaiting())));
 self.addEventListener('activate', (e) => e.waitUntil(caches.keys().then((k) => Promise.all(k.filter((x) => x !== C).map((x) => caches.delete(x)))).then(() => self.clients.claim())));

diff --git a/db.js b/db.js
@@ -331,3 +331,5 @@ db.exec(`CREATE TABLE IF NOT EXISTS tickets (
   existing_client TEXT, staff_note TEXT, assigned_to INTEGER,
   created_at TEXT DEFAULT CURRENT_TIMESTAMP, updated_at TEXT DEFAULT CURRENT_TIMESTAMP, closed_at TEXT);
 CREATE INDEX IF NOT EXISTS idx_tk_tenant ON tickets(tenant_id, status, created_at);`);
+
+if (!hasCol('invoices', 'subject')) db.exec('ALTER TABLE invoices ADD COLUMN subject TEXT');
